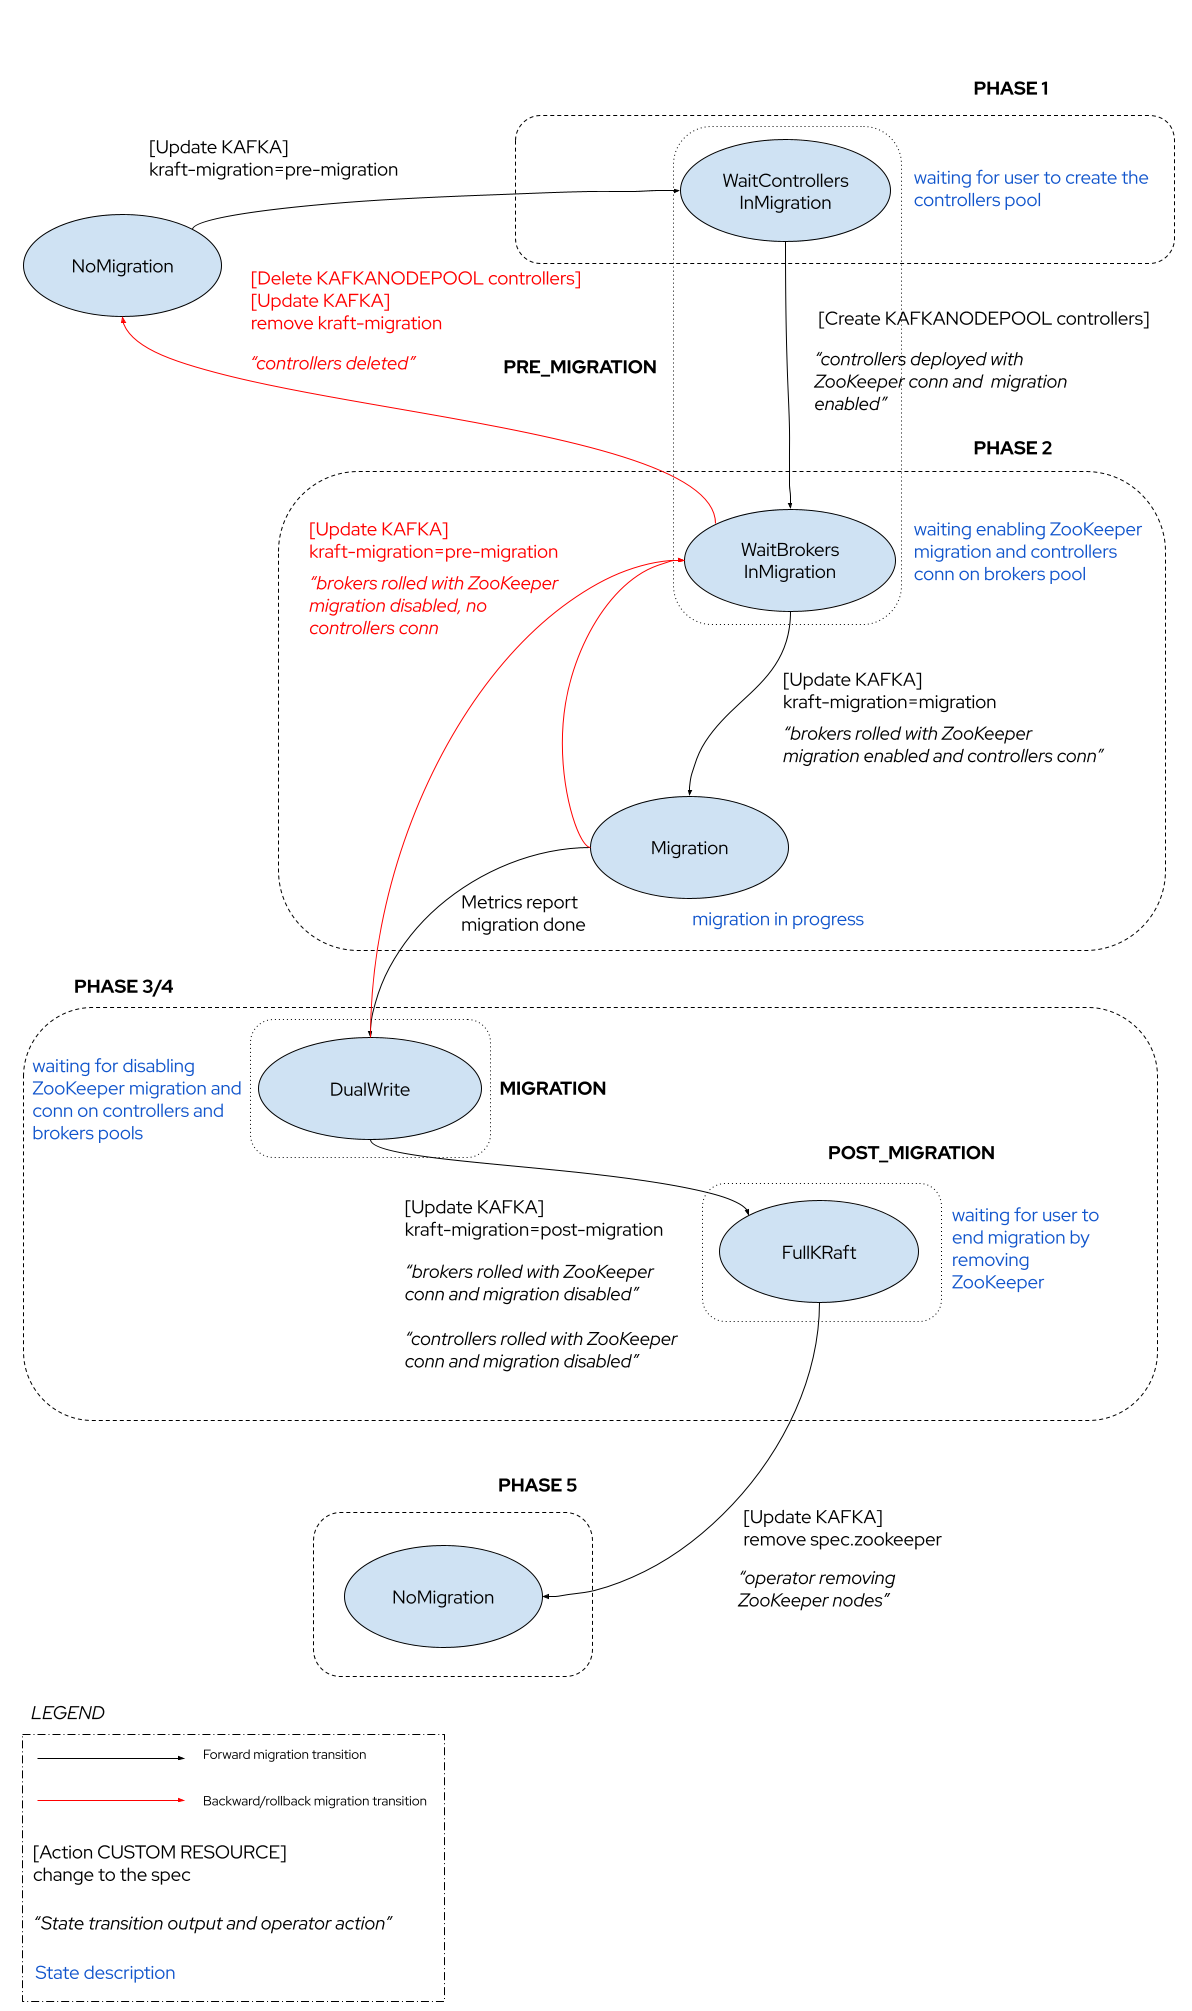
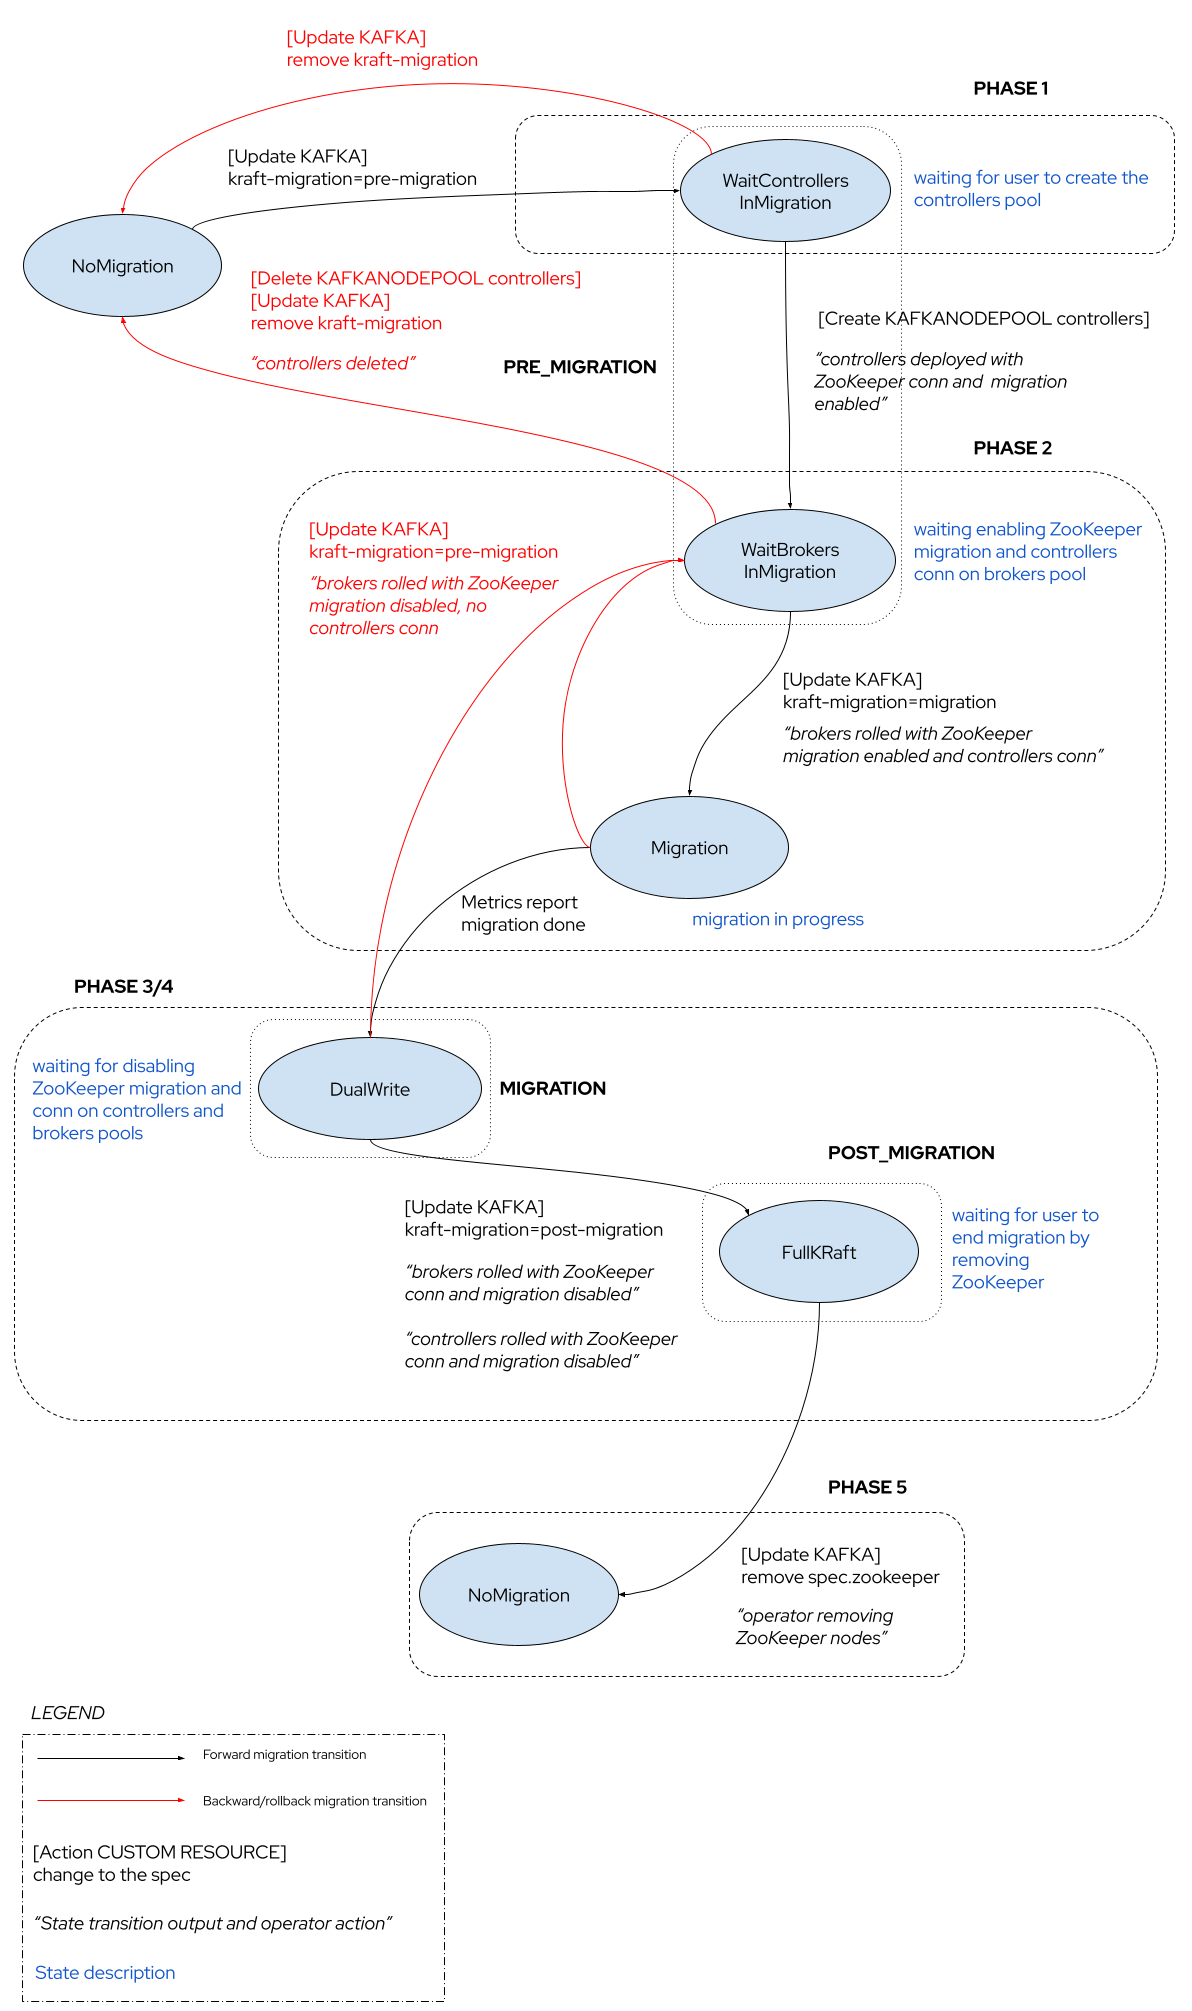
Updated FSM graph to cancel migration at very beginning Updated proposal with a more structured description in each phase (as per TB feedback)

diff --git a/056-zk-kraft-migration.md b/056-zk-kraft-migration.md
@@ -95,12 +95,69 @@ The following sections explain the states and transitions in details.
 The "Phase"(s) reflect what is described in the official [ZooKeeper to KRaft Migration](https://kafka.apache.org/documentation/#kraft_zk_migration) guide in the Apache Kafka documentation but with the right degree of automation provided by the operator.
 Also, the `PRE_MIGRATION`, `MIGRATION` and `POST_MIGRATION` dotted boxes correspond to the `ZkMigrationState` [enum values](https://github.com/apache/kafka/blob/trunk/metadata/src/main/java/org/apache/kafka/metadata/migration/ZkMigrationState.java#L32) from the Apache Kafka migration component.
 
+Each phase is described by:
+
+* _Preconditions_: conditions that should be met (i.e. current state in the migration FSM) in order to have the operator taking actions on a trigger.
+* _Trigger_: what makes the operator actions to run only with verified preconditions.
+* _Actions_: what the operator does when preconditions are met (i.e. nodes configuration, rolling, ...) together with things that could be observable during actions (i.e. Kafka metrics changes).
+* _Status changes_: how the FSM changes status when the actions are completed.
+
+#### Initializing migration process
+
+**_Preconditions_**
+
+The Apache Kafka cluster is up and running and in a functional state.
+The FSM is in the `NoMigration` (or null) state (as per `Kafka.status.migrationState` field).
+
+**_Trigger_**
+
+The user applies the `strimzi.io/kraft-migration: pre-migration` annotation on the `Kafka` custom resource to make the operator aware of the migration intention.
+
+**_Actions_**
+
+The operator starts a reconciliation but there are no actual actions to be executed.
+The `KRaftMigrationManager` component just prepares, with an internal status change, to be ready for the migration process.
+The current reconciliation ends.
+
+**_Status changes_**
+
+The FSM moves to the `WaitControllersInMigration` state where the operator expects the user to create the KRaft controllers pool.
+
 #### Phase 1: Provisioning the KRaft controller quorum
 
-Starting from a `NoMigration` (or null) state (as per `Kafka.status.migrationState` field), the user applies the `strimzi.io/kraft-migration: pre-migration` on the `Kafka` custom resource to make the operator aware of the migration intention.
-The FSM moves to a `WaitControllersInMigration` state where the operator expects the user to create the KRaft controllers pool.
+At the beginning of this phase, it's still possible to not move forward with the migration.
+
+**_Preconditions_**
+
+The FSM is in the `WaitControllersInMigration` state (as per `Kafka.status.migrationState` field).
+
+**_Trigger_**
+
+The user removes the `strimzi.io/kraft-migration` annotation from the `Kafka` custom resource.
+
+**_Actions_**
+
+The operator starts a reconciliation but there are no actual actions to be executed.
+The `KRaftMigrationManager` component just comes back to idle, with an internal status change.
+The current reconciliation ends.
+
+**_Status changes_**
+
+The FSM moves back to the `NoMigration` state.
+
+---
+
+**_Preconditions_**
+
+The FSM is in the `WaitControllersInMigration` state (as per `Kafka.status.migrationState` field).
+
+**_Trigger_**
+
 The user creates the `KafkaNodePool` custom resource containing the definition of the KRaft controllers which are going to replace the ZooKeeper nodes.
-The operator creates and configures the controllers accordingly with the ZooKeeper migration flag and the connection to the ZooKeeper ensemble. 
+
+**_Actions_**
+
+The operator starts a reconciliation and, via the `KafkaReconciler` component, creates and configures the controllers accordingly with the ZooKeeper migration flag and the connection to the ZooKeeper ensemble. 
 
 ```shell
 # Enable the migration
@@ -111,21 +168,49 @@ zookeeper.connect=<connection-to-zookeeper>
 ```
 
 The operator has to wait for the KRaft controllers being ready, the quorum to be formed and leader elected, then the migration process moves to the state of waiting for brokers to register.
+The current reconciliation ends.
+
+**_Status changes_**
 
 The FSM moves to a `WaitBrokersInMigration` state where the operator expects the user to ask for running the actual metadata migration.
-It means the operator has to enable the ZooKeeper migration on the brokers pool in order to actually start the migration (Phase 2).
 
-From this state it's still possible to not move forward with the migration.
-The user can delete the `KafkaNodePool` custom resource containing the definition of the KRaft controllers and remove the `strimzi.io/kraft-migration` annotation from the `Kafka` custom resource.
-The FSM moves back to the `NoMigration` state (or null) actually exiting from the migration process and the operator upgrades `Kafka.status.migrationState` field accordingly.
+#### Phase 2: Rollback or Enabling the migration on the brokers
+
+At the beginning of this phase, it's still possible to not move forward with the migration.
+
+**_Preconditions__**
+
+The FSM is in the `WaitBrokersInMigration` state (as per `Kafka.status.migrationState` field).
+
+**_Trigger_**
+
+The user deletes the `KafkaNodePool` custom resource containing the definition of the KRaft controllers and remove the `strimzi.io/kraft-migration` annotation from the `Kafka` custom resource.
+
+**_Actions_**
+
+The operator starts a reconciliation and, via the `KafkaReconciler` component, deletes the controllers pods.
 There is nothing to do with the brokers which are still configured to work with the ZooKeeper ensemble only.
+The current reconciliation ends.
 
-#### Phase 2: Enabling the migration on the brokers
+**_Status changes_**
 
-In the `WaitBrokersInMigration` state, the operator expects the user to ask for running the actual metadata migration.
-In order to start the actual migration, the brokers need to be connected to the KRaft controllers and have the ZooKeeper migration enabled.
-The user annotates the `Kafka` custom resource running the current ZooKeeper based brokers with `strimzi.io/kraft-migration: migration`.
-This annotation drives the operator to update the brokers' configuration with the ZooKeeper migration flag enabled and with the new KRaft controllers quorum connection information as well.
+The FSM moves back to the `NoMigration` state (or null) actually exiting from the migration process and the operator upgrades `Kafka.status.migrationState` field accordingly.
+
+---
+
+Instead of rolling back, in order to start the actual migration, the brokers need to be connected to the KRaft controllers and have the ZooKeeper migration enabled.
+
+**_Preconditions_**
+
+The FSM is in the `WaitBrokersInMigration` state (as per `Kafka.status.migrationState` field) and the operator expects the user to ask for running the actual metadata migration.
+
+**_Trigger_**
+
+The the user applies the `strimzi.io/kraft-migration: migration` annotation on the `Kafka` custom resource running the current ZooKeeper based brokers.
+
+**_Actions_**
+
+With the applied annotation, the operator starts a reconciliation and, via the `KafkaReconciler` component, updates the brokers' configuration with the ZooKeeper migration flag enabled and with the new KRaft controllers quorum connection information as well.
 
 ```shell
 # KRaft controller quorum configuration
@@ -142,22 +227,98 @@ zookeeper.metadata.migration.enable=true
 zookeeper.connect=<connection-to-zookeeper>
 ```
 
-Finally, the operator rolls the brokers.
-After the rolling, the internal Apache Kafka migration component starts the actual metadata migration and the operator has to wait for it to be completed to move to the next phase.
-Checking the migration progress can be done using some of the exposed migration metrics.
-The FSM moves to `Migration` state first, while migration is ongoing, and finally to the `DualWrite` state.
-In both states, the user can rollback the process by applying the `strimzi.io/kraft-migration: pre-migration` on the `Kafka` custom resource.
-In this case, the operator configures the brokers with no ZooKeeper migration flag, and no KRaft controllers quorum connection information.
-Finally, the operator rolls the brokers and wait for them to be ready again.
+Finally, the operator, via the `KafkaRoller`, rolls the brokers and waits for them to be ready.
+The current reconciliation ends.
+With brokers rolled, the internal Apache Kafka migration component starts the actual metadata migration, asynchronously, and the operator has to wait for it to be completed to move to the next phase.
+
+**_Status changes_**
+
+The FSM moves to `Migration` state and stays there while migration is ongoing.
+
+---
+
+While migration is running, it's still possible to not move forward with finalizing the migration but rolling back instead.
+
+**_Preconditions_**
+
+The FSM is in the `Migration` state (as per `Kafka.status.migrationState` field).
+The migration is ongoing.
+
+**_Trigger_**
+
+The user can rollback the process by applying the `strimzi.io/kraft-migration: pre-migration` annotation on the `Kafka` custom resource.
+
+**_Actions_**
+
+In this case, the operator starts a reconciliation an, via the `KafkaReconciler` component, configures the brokers with no ZooKeeper migration flag, and no KRaft controllers quorum connection information.
+Finally, the operator rolls the brokers, via the `KafkaRoller`, and waits for them to be ready again.
+The current reconciliation ends.
+
+**_Status changes_**
+
 The FSM moves back to the `WaitBrokersInMigration`, so actually at the beginning of the Phase 2.
 
-If the user doesn't rollback the migration, next step is to move brokers and controllers out of migration and using KRaft only in Phase 3/4.
+---
+
+While migration is running, the operator has to check for its status and if it's finished and KRaft controllers are working in "dual write" mode.
+This way the next step will be to move brokers and controllers out of migration and using KRaft only in Phase 3/4.
+
+**_Preconditions_**
+
+The FSM is in the `Migration` state (as per `Kafka.status.migrationState` field).
+The migration is ongoing.
+
+**_Trigger_**
+
+A periodic reconciliation is triggered.
+
+**_Actions_**
+
+The operator checks the Kafka migration metrics by using the Kafka Agent client in order to verify the status of the migration on the Apache Kafka cluster.
+The current reconciliation ends.
+
+**_Status changes_**
+
+If the migration finished, the FSM moves to the `DualWrite` state.
+If the migration is still ongoing, the FSM stays in the `Migration` state.
 
 #### Phase 3/4: Migrating brokers and controllers to full KRaft
 
-In the `DualWrite` state, the operator expects the user desire to finalize the migration, having a full KRaft based cluster and ZooKeeper out of the picture.
+At the beginning of this phase, the user has the last opportunity to rollback the migration process.
+
+**_Preconditions_**
+
+The FSM is in the `DualWrite` state (as per `Kafka.status.migrationState` field).
+
+**_Trigger_**
+
+The user can rollback the process by applying the `strimzi.io/kraft-migration: pre-migration` annotation on the `Kafka` custom resource.
+
+**_Actions_**
+
+In this case, the operator starts a reconciliation and, via the `KafkaReconciler` component, configures the brokers with no ZooKeeper migration flag, and no KRaft controllers quorum connection information.
+Finally, the operator rolls the brokers, via the `KafkaRoller`, and waits for them to be ready again.
+The current reconciliation ends.
+
+**_Status changes_**
+
+The FSM moves back to the `WaitBrokersInMigration`, so actually at the beginning of the Phase 2.
+
+---
+
+If the user doesn't rollback the migration, next step is to finalize the migration process.
+
+**_Preconditions_**
+
+The FSM is in the `DualWrite` state (as per `Kafka.status.migrationState` field) and the operator expects the user desire to finalize the migration, having a full KRaft based cluster and ZooKeeper out of the picture.
+
+**_Trigger_**
+
 The user applies the `strimzi.io/kraft-migration: post-migration` annotation to the `Kafka` custom resource.
-The operator updates the brokers' configuration by removing the ZooKeeper migration flag and connection to the ZooKeeper ensemble.
+
+**_Actions_**
+
+The operator starts a reconciliation and, via the `KafkaReconciler` component, updates the brokers' configuration by removing the ZooKeeper migration flag and connection to the ZooKeeper ensemble.
 It also has to replace the `broker.id` with `node.id`.
 
 ```shell
@@ -174,7 +335,7 @@ node.id=0
 # inter.broker.protocol.version=3.5
 ```
 
-The operator rolls the brokers and waits for them to be ready again.
+The operator rolls the brokers, via the `KafkaRoller`, and waits for them to be ready again.
 They are now connected to the KRaft controllers quorum only and not to the ZooKeeper ensemble anymore.
 
 When brokers are rolled and ready again, the operator updates the controllers' configuration by removing the ZooKeeper migration flag and connection to the ZooKeeper ensemble.
@@ -187,20 +348,33 @@ When brokers are rolled and ready again, the operator updates the controllers' c
 # zookeeper.connect=<connection-to-zookeeper>
 ```
 
-Finally, the operator rolls the controllers and wait for them to be ready again.
+Finally, the operator rolls the controllers, via the `KafkaRoller`,  and waits for them to be ready again.
 They are now disconnected from the ZooKeeper ensemble which is totally out of the picture.
-The FSM moves to the `FullKRaft` state and ZooKeeper is not used anymore.
+The current reconciliation ends.
 
-Before completing the migration, the `DualWrite` state is also the last opportunity for the user to rollback the migration process by applying the `strimzi.io/kraft-migration: pre-migration` on the `Kafka` custom resource.
-In this case, the operator configures the brokers with no ZooKeeper migration flag, and no KRaft controllers quorum connection information.
-Finally, the operator rolls the brokers and wait for them to be ready again.
-The FSM moves back to the `WaitBrokersInMigration`, so actually at the beginning of the Phase 2.
+**_Status changes_**
+
+The FSM moves to the `FullKRaft` state and ZooKeeper is not used anymore.
 
 #### Phase 5: Removing ZooKeeper
 
 At this point the ZooKeeper ensemble is out of the picture, still running but not used anymore.
-In the `FullKRaft` state, the operator expects the user to finalize the migration by removing ZooKeeper.
-The user removes the `spec.zookeeper` on the `Kafka` custom resource so that the operator can delete the ZooKeeper nodes.
+
+**_Preconditions_**
+
+The FSM is in the `FullKRaft` state (as per `Kafka.status.migrationState` field) and the operator expects the user to finalize the migration by removing ZooKeeper.
+
+**_Trigger_**
+
+The user removes the `spec.zookeeper` on the `Kafka` custom resource.
+
+**_Actions_**
+
+The operator starts a reconciliation and, via the `KafkaReconciler` component, deletes the ZooKeeper nodes pods.
+The current reconciliation ends.
+
+**_Status changes_**
+
 The FSM moves back to a `NoMigration` state (or null) and the operator upgrades `Kafka.status.migrationState` field accordingly.
 
 ### Metrics
